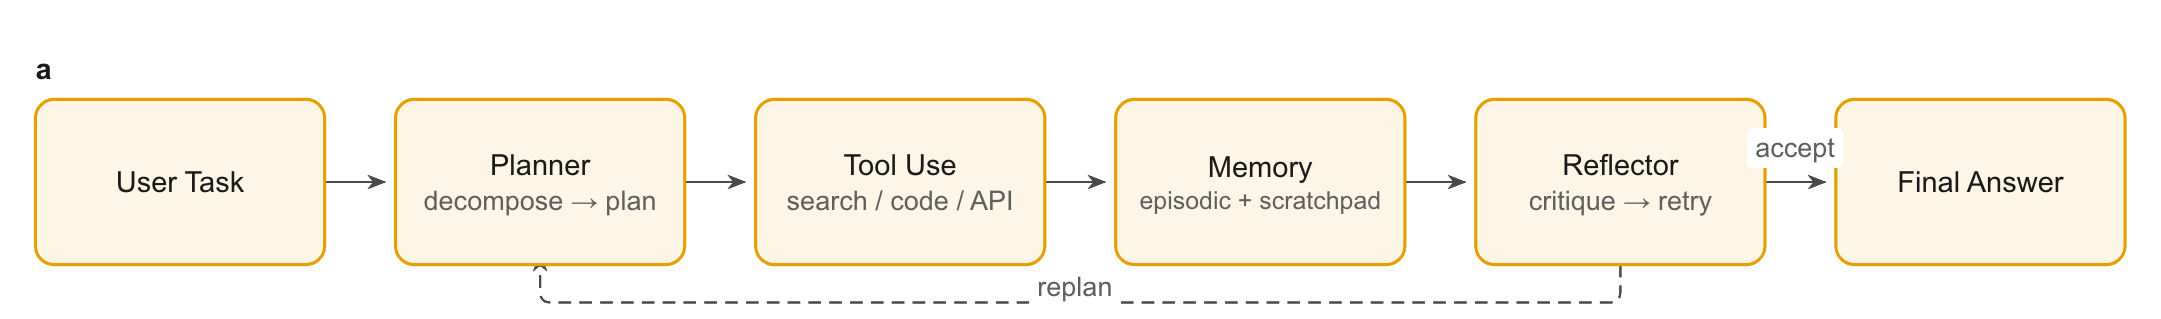
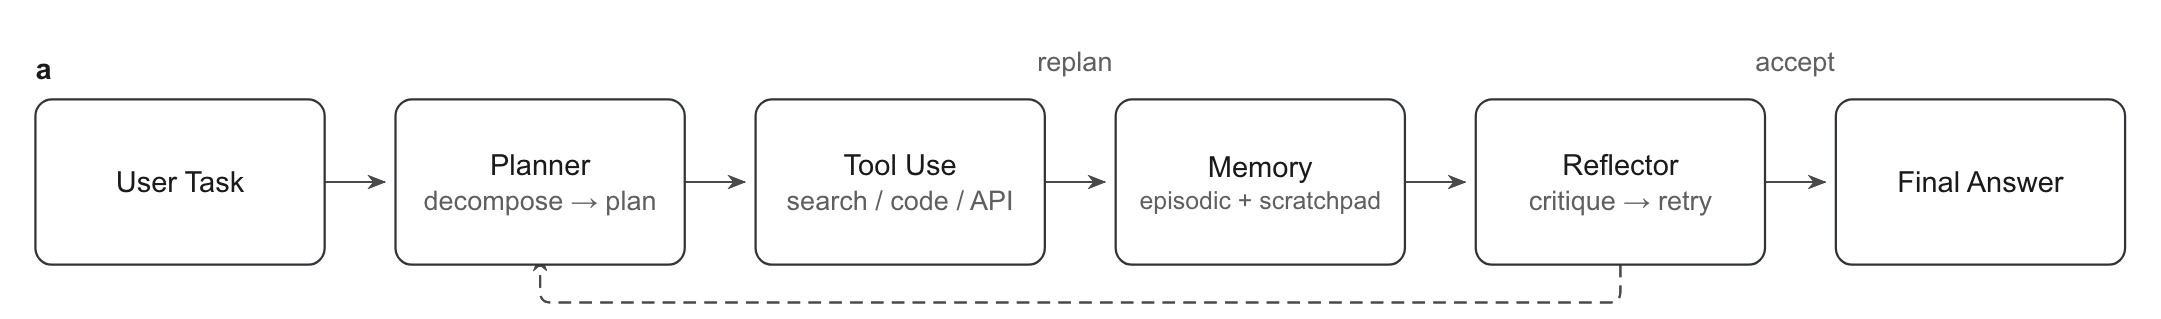
style(v1.3.1): 默认改成期刊插图风（白底细框）+ 跳线走节点带下方 + 标签避让节点
- 新增 spec.style: minimal(默认)/accent/muted；minimal = 白底、深灰细边框、note 保留淡色
- 跳线（n1→n3 这类跨模块边）遇到节点阻挡时改走节点带下方车道，不再横穿中间模块
- 边标签压到节点时沿路径挪位、再不行抬到节点带上方，避免盖住模块名
- 样例图全部按新风格重出（examples/gallery/）

diff --git a/README.md b/README.md
@@ -129,9 +129,13 @@ node scripts/fig.mjs report ./fig1 --pdf
 |---|---|
 | ![transformer](examples/gallery/transformer-block.png) | ![agent](examples/gallery/agent-architecture.png) |
 
-| Training / evaluation pipeline |
+| Training / evaluation pipeline | RAG pipeline |
+|---|---|
+| ![training](examples/gallery/training-pipeline.png) | ![rag](examples/gallery/rag-pipeline.png) |
+
+| Data figure (CSV → journal-style bars) |
 |---|
-| ![training](examples/gallery/training-pipeline.png) |
+| ![chart](examples/gallery/chart-demo.png) |
 
 ## Nine structural blueprints, so you do not start from a blank canvas
 

diff --git a/README.zh.md b/README.zh.md
@@ -134,9 +134,13 @@ node scripts/fig.mjs report ./fig1 --pdf
 |---|---|
 | ![transformer](examples/gallery/transformer-block.png) | ![agent](examples/gallery/agent-architecture.png) |
 
-| 训练与评测流程 |
+| 训练与评测流程 | RAG 流水线 |
+|---|---|
+| ![training](examples/gallery/training-pipeline.png) | ![rag](examples/gallery/rag-pipeline.png) |
+
+| 数据图（CSV → 期刊风格柱状图） |
 |---|
-| ![training](examples/gallery/training-pipeline.png) |
+| ![chart](examples/gallery/chart-demo.png) |
 
 ## 9 种结构图，不用从空白画布开始
 

diff --git a/SKILL.md b/SKILL.md
@@ -4,7 +4,7 @@ slug: paper-figure
 displayName: "论文配图 · 可投稿版"
 display_name: "论文配图 · 可投稿版"
 display_name_en: "Paper Figure"
-version: "1.3.0"
+version: "1.3.1"
 author: "he fangsheng <hefangsheng@gmail.com>"
 license: MIT
 homepage: "https://github.com/u-claw-os/paper-figure"
